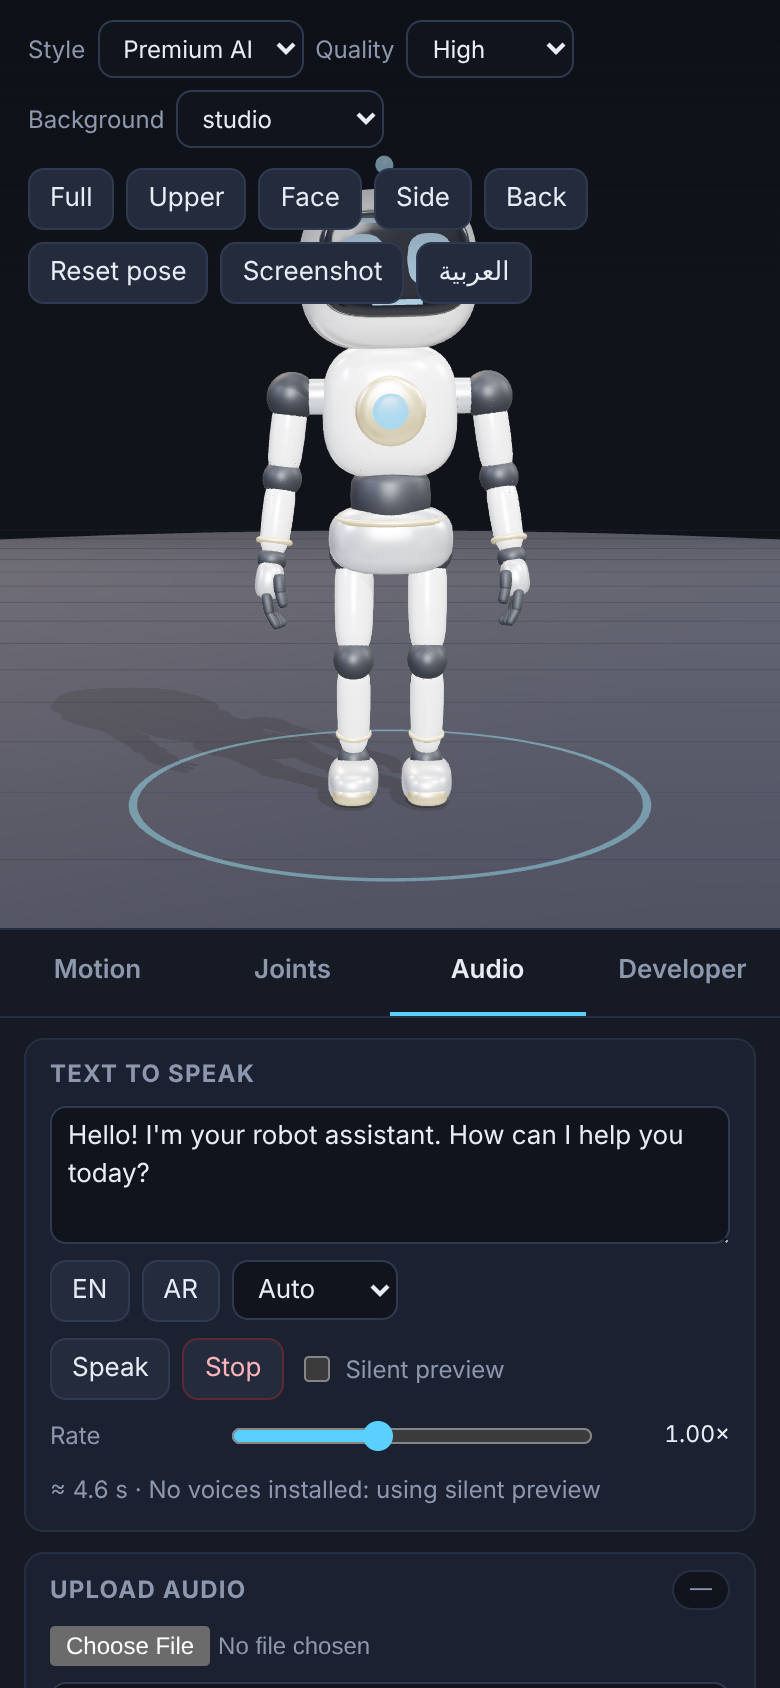
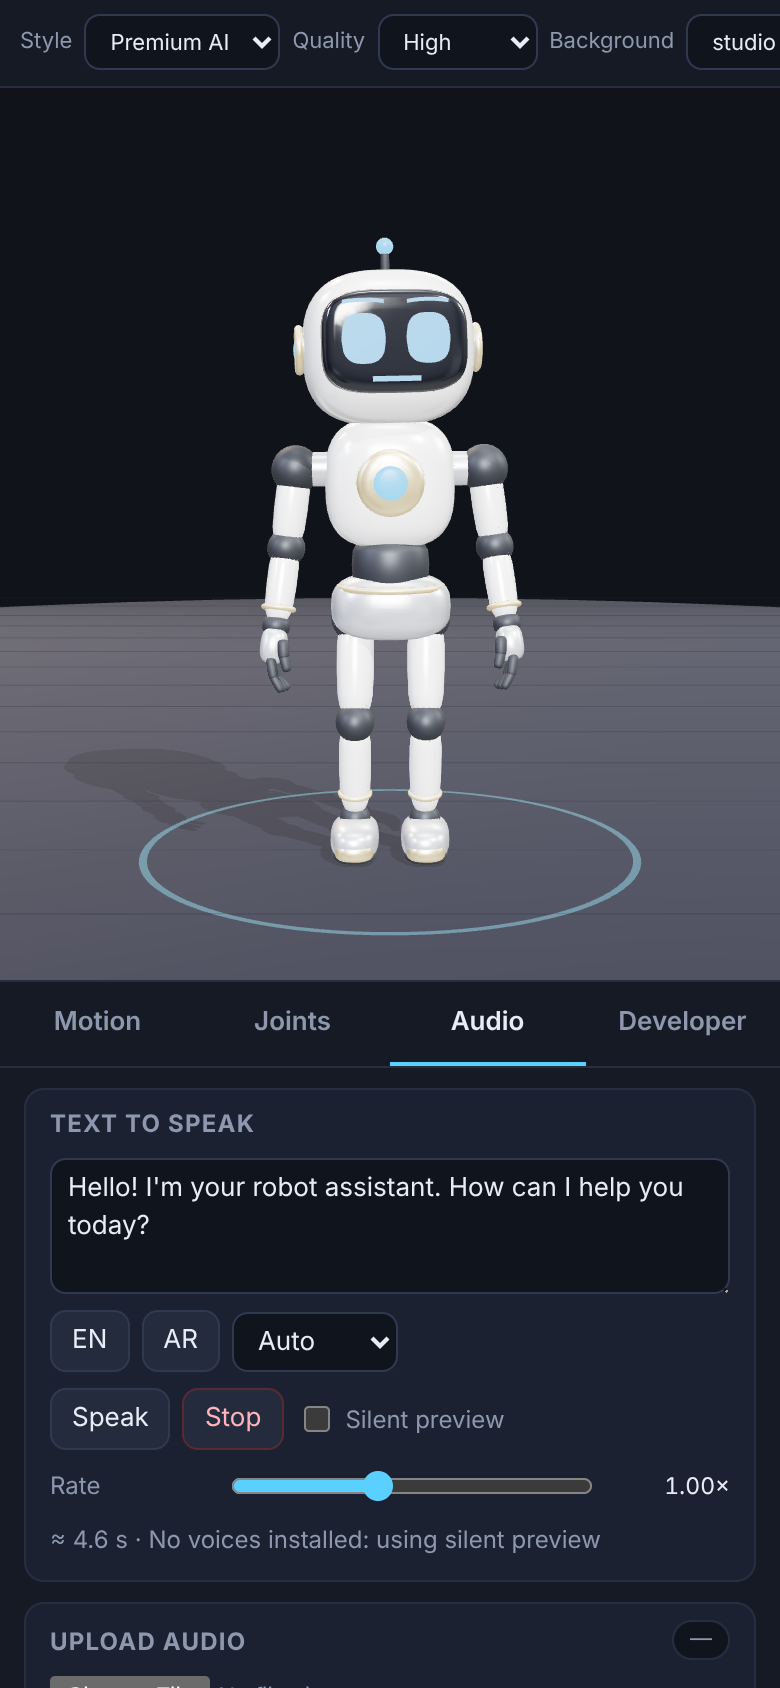
Studio: phone toolbar strip, e2e checks; docs counts
Claude-Session: https://claude.ai/code/session_01VfsiR5th1K88GXTtZ6q74Z

diff --git a/src/studio/studio.css b/src/studio/studio.css
@@ -57,8 +57,15 @@ code { background: #10141d; padding: 0 4px; border-radius: 4px; }
 .vm .bar { width: 100%; height: 40px; background: #10141d; border-radius: 4px; display: flex; align-items: flex-end; overflow: hidden; } .vm .bar i { width: 100%; display: block; transition: height .05s; }
 input[type=file] { color: var(--dim); font-size: 12px; max-width: 100%; }
 @media (max-width: 900px) {
-  .app { grid-template-columns: 1fr; grid-template-rows: 55vh 1fr; }
+  .app { grid-template-columns: 1fr; grid-template-rows: 58vh 1fr; }
   .side { border-inline-start: 0; border-top: 1px solid var(--line); }
-  .toolbar h1 { display: none; } .slider { grid-template-columns: 80px 1fr 62px; }
+  /* phone: the toolbar becomes a scrollable strip above the viewport instead of overlaying the robot */
+  .stage { display: flex; flex-direction: column; }
+  .viewport { position: relative; inset: auto; flex: 1; min-height: 0; }
+  .toolbar { order: -1; position: static; flex-wrap: nowrap; overflow-x: auto; background: var(--panel); border-bottom: 1px solid var(--line); padding: 6px 10px; gap: 8px; scrollbar-width: thin; }
+  .toolbar > *, .tb-group { flex: none; }
+  .toolbar h1 { display: none; }
+  .tb-group label { font-size: 11px; } .tb-group select { max-width: 110px; }
+  .slider { grid-template-columns: 80px 1fr 62px; }
 }
 @media (prefers-reduced-motion: reduce) { * { transition: none !important; } }

diff --git a/README.md b/README.md
@@ -20,7 +20,7 @@ a **Control Studio** to test everything.
 npm install
 npm run dev            # Control Studio at http://localhost:5173
 npm test               # 87 unit/integration tests (headless, real GLB models)
-npm run test:e2e       # 25 browser tests (Chromium + WebGL): Studio, audio lip-sync, WebSocket, R3F
+npm run test:e2e       # 26 browser tests (Chromium + WebGL): Studio, audio lip-sync, WebSocket, R3F
 npm run build          # type-check + production build (dist/)
 ```
 
